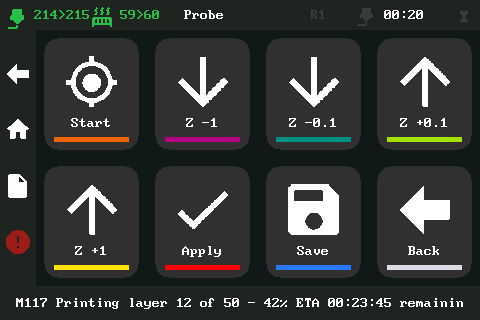
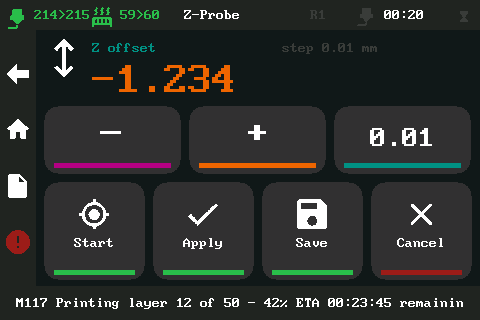
gui: Z-Probe screen; fix Level ABORT/CONFIRM label
- main menu 'Z Calibrate' -> 'Z-Probe'; the screen is redrawn like the
  adjustment popup: [-] [+] [step] on top, Start / Apply / Save / Cancel
  below, all grey with the colour only on the underline
- step toggle cycles 0.005 / 0.01 / 0.1 / 1 mm, -/+ send TESTZ with it
- Start: G28 + PROBE_CALIBRATE (homing first); Apply: ACCEPT;
  Save: G28 + SAVE_CONFIG (homing at the end); Cancel: heaters off +
  ABORT and back to main
- header shows the saved probe z_offset, or the live nozzle Z while a
  manual probe is active
- Level screen: the ABORT/CONFIRM label called a non-existent _t() and
  raised on every redraw while leveling - use a plain string
- a bit more room between the label and the accent line (_btn_ops)
- tft_sim: stub probe / manual_probe / bed_mesh, add the new screens

diff --git a/mcu/st7796.py b/mcu/st7796.py
@@ -56,7 +56,7 @@ GUI_SCREENS = {
         ("Extruder", "extrude", ('scr', 'extrude')),
         ("Print", "print", ('scr', 'print')),
         ("Level", "bedmesh", ('scr', 'mesh')),
-        ("Z Calibrate", "zoffset", ('scr', 'probe')),
+        ("Z-Probe", "zoffset", ('scr', 'probe')),
         ("More", "settings", ('scr', 'more')),
         ("Home", "home", 'G28'),
     ],
@@ -95,16 +95,8 @@ GUI_SCREENS = {
         None, None, None, None, None, None,
         ("Back", "back", ('scr', 'extrude')),
     ],
-    'probe': [
-        ("Start", "probe", 'PROBE_CALIBRATE'),
-        ("Z -1", "down", 'TESTZ Z=-1'),
-        ("Z -0.1", "down", 'TESTZ Z=-0.1'),
-        ("Z +0.1", "up", 'TESTZ Z=+0.1'),
-        ("Z +1", "up", 'TESTZ Z=+1'),
-        ("Apply", "check", 'ACCEPT'),
-        ("Save", "save", 'SAVE_CONFIG'),
-        ("Back", "back", ('scr', 'main')),
-    ],
+    # 'probe' (Z-Probe) is drawn by _probe_view_ops: see Z_STEPS below.
+    'probe': [],
     # 'print' is built dynamically from the virtual SD files (see _print_items)
     'print': [],
     'filament': [
@@ -155,6 +147,9 @@ GUI_STRIP = {
 # Screens whose button grid is not the default 4 columns x 2 rows
 GUI_ROWS = {'print': 2}
 GUI_COLS = {}
+
+# Z-Probe: TESTZ steps, cycled by the step toggle button (mm).
+Z_STEPS = (0.005, 0.01, 0.1, 1.0)
 
 # Advanced (extruder) and machine limit screens: POPUP_ITEMS keys per card.
 ADV_KEYS = ('pa', 'smooth', 'shx', 'shy')
@@ -225,7 +220,7 @@ POPUP_ITEMS = {
 
 # Friendly titles for the top bar (otherwise the screen id is shown)
 GUI_TITLES = {'ptune': 'Tune', 'filament': 'Filament',
-              'estop': 'Confirmar', 'mesh': 'Level',
+              'estop': 'Confirm', 'mesh': 'Level', 'probe': 'Z-Probe',
               'meshadj': 'Adjust', 'advanced': 'Advanced',
               'limits': 'Limits', 'more2': 'More 2/2',
               'extrude2': 'Extruder 2/2'}
@@ -499,6 +494,7 @@ class ST7796:
         self._card_cols = {}
         self._fil_unloaded = False
         self._BSTEPS = (0.005, 0.01, 0.1, 0.5)
+        self._zstep_i = 1
         self._bstep_i = 1
         self._baby_dirty = False
         self._popup = None
@@ -1726,7 +1722,7 @@ class ST7796:
                     self.gui_btn_bg
             else:
                 icon = 'x48'
-                lab = self._t("CONFIRM" if armed else "ABORT") \
+                lab = ("CONFIRM" if armed else "ABORT") \
                     if running else "CANCEL"
                 fg, bg = COL_WHITE, self.gui_btn_bg
             ops.append(lambda x=x, y=y, w=w, h=h, bg=bg: self._gui_round(
@@ -3135,6 +3131,8 @@ class ST7796:
             self._cards_view_ops(ops, ADV_KEYS, eventtime)
         elif self.gui_screen == 'limits':
             self._cards_view_ops(ops, LIM_KEYS, eventtime)
+        elif self.gui_screen == 'probe':
+            self._probe_view_ops(ops, eventtime)
         g = self.gui_btn_gap
         i2 = g // 2
         for (x, y, w, h, idx, item) in self._gui_buttons():
@@ -3408,7 +3406,7 @@ class ST7796:
                                          self.gui_btn_bg, 1))
         if accent is not None:
             ops.append(lambda bx=bx, by=by, bw2=bw2, bh2=bh2, accent=accent:
-                       self.cmd_rect.send([bx + 10, by + bh2 - 13, bw2 - 20, 5,
+                       self.cmd_rect.send([bx + 10, by + bh2 - 9, bw2 - 20, 5,
                                            accent]))
     def _net_view_ops(self, ops, eventtime):
         info = self._net_info()
@@ -3538,6 +3536,100 @@ class ST7796:
         ty = y + max(0, (h - 64) // 2)
         ops.append(lambda tx=tx, ty=ty, label=label, bg=bg, fg=fg:
                    self._gui_text(tx, ty, label, fg, bg, 4))
+    # --- Z-Probe (manual probe calibrate) ---------------------------------
+    # Layout follows the adjustment popup: [-][+][step] on top, then the
+    # Start / Apply / Save / Cancel row underneath.
+    def _probe_btns(self):
+        x0 = self.RAIL_W + 8
+        w = self.width - self.RAIL_W - 16
+        bw1 = (w - 16) // 3
+        bw2 = (w - 24) // 4
+        y1 = self.TOP_H + 76
+        h1 = 68
+        y2 = y1 + h1 + 8
+        h2 = self.height - self.STRIP_H - 6 - y2
+        out = [('minus', x0, y1, bw1, h1),
+               ('plus', x0 + bw1 + 8, y1, bw1, h1),
+               ('step', x0 + 2 * (bw1 + 8), y1, bw1, h1)]
+        for i, k in enumerate(('start', 'apply', 'save', 'cancel')):
+            out.append((k, x0 + i * (bw2 + 8), y2, bw2, h2))
+        return out
+    def _probe_read(self, eventtime):
+        # During PROBE_CALIBRATE show the nozzle Z being adjusted, otherwise
+        # the saved probe z_offset.
+        try:
+            mp = self.printer.lookup_object('manual_probe').get_status(
+                eventtime)
+        except Exception:
+            mp = {}
+        if mp.get('is_active'):
+            return "Nozzle Z", float(mp.get('z_position') or 0.)
+        try:
+            return "Z offset", float(self.printer.lookup_object(
+                'probe').get_status(eventtime).get('z_offset') or 0.)
+        except Exception:
+            return "Z offset", None
+    def _probe_view_ops(self, ops, eventtime):
+        x0 = self.RAIL_W + 8
+        y0 = self.TOP_H + 8
+        bg = self.gui_btn_bg
+        ops.append(lambda: self._gui_icon_at('zoffset', x0, y0, COL_WHITE,
+                                             COL_BG, 40))
+        lab, z = self._probe_read(eventtime)
+        val = "%+.3f" % z if z is not None else "--"
+        ops.append(lambda lab=lab: self._gui_text(x0 + 48, y0 + 2, lab,
+                                                  COL_C3, COL_BG, 1))
+        ops.append(lambda val=val: self._gui_text(x0 + 48, y0 + 18, val,
+                                                  COL_C1, COL_BG, 3))
+
+        ops.append(lambda: self._gui_text(x0 + 48 + 190, y0 + 2,
+                                          "step %g mm" % Z_STEPS[
+                                              self._zstep_i],
+                                          COL_DIM, COL_BG, 1))
+        for (kind, x, y, w, h) in self._probe_btns():
+            if kind in ('minus', 'plus'):
+                sign = '-' if kind == 'minus' else '+'
+                acc = self._gc(1) if kind == 'minus' else self._gc(0)
+                ops.append(lambda x=x, y=y, w=w, h=h: self._gui_round(
+                    x, y, w, h, bg))
+                ty = y + max(4, (h - 48 - 14) // 2)
+                ops.append(lambda x=x, y=y, w=w, sign=sign, ty=ty:
+                           self._gui_text(x + (w - 24) // 2, ty, sign,
+                                          COL_WHITE, bg, 3))
+                ops.append(lambda x=x, y=y, w=w, h=h, acc=acc:
+                           self.cmd_rect.send([x + 10, y + h - 11, w - 20,
+                                               5, acc]))
+            elif kind == 'step':
+                lab = "%g" % Z_STEPS[self._zstep_i]
+                ops.append(lambda x=x, y=y, w=w, h=h: self._gui_round(
+                    x, y, w, h, bg))
+                ops.append(lambda x=x, y=y, w=w, lab=lab:
+                           self._gui_text_center(x, w, y + 16, lab,
+                                                 COL_WHITE, bg, 2))
+                ops.append(lambda x=x, y=y, w=w, h=h:
+                           self.cmd_rect.send([x + 10, y + h - 11, w - 20,
+                                               5, COL_C3]))
+            else:
+                icon, acc = {'start': ('probe', COL_OK),
+                             'apply': ('check', COL_OK),
+                             'save': ('save', COL_OK),
+                             'cancel': ('x48', COL_ERR)}[kind]
+                lab = kind.capitalize()
+                ops.append(lambda x=x, y=y, w=w, h=h: self._gui_round(
+                    x, y, w, h, bg))
+                isz = 30
+                iw = (self._icon_at(icon, isz) or (0, 0))[0]
+                iy = y + max(6, (h - (isz + 6 + 16)) // 2 - 6)
+                ops.append(lambda x=x, y=y, w=w, icon=icon, iw=iw, iy=iy,
+                           isz=isz: self._gui_icon_at(
+                               icon, x + (w - iw) // 2, iy, COL_WHITE, bg,
+                               isz))
+                ops.append(lambda x=x, y=y, w=w, iy=iy, isz=isz, lab=lab:
+                           self._gui_text_center(x, w, iy + isz + 6, lab,
+                                                 COL_WHITE, bg, 1))
+                ops.append(lambda x=x, y=y, w=w, h=h, acc=acc:
+                           self.cmd_rect.send([x + 10, y + h - 10, w - 20,
+                                               5, acc]))
     def _estop_btns(self):
         bw = (self.width - self.RAIL_W) // 4
         y = self.TOP_H + 104
@@ -3606,6 +3698,37 @@ class ST7796:
         elif isinstance(action, tuple) and action[0] == 'bstep':
             self._bstep_i = (self._bstep_i + 1) % len(self._BSTEPS)
             self._gui_render(eventtime)
+        elif isinstance(action, tuple) and action[0] == 'zp':
+            kind = action[1]
+            now = self.printer.get_reactor().monotonic()
+            if kind == 'step':
+                self._zstep_i = (self._zstep_i + 1) % len(Z_STEPS)
+                self._gui_render(eventtime)
+                return
+            if kind in ('minus', 'plus'):
+                amt = Z_STEPS[self._zstep_i] * (
+                    -1. if kind == 'minus' else 1.)
+                self._gui_msg = "TESTZ %+.3f" % amt
+                self._gui_msg_until = now + 5.
+                script = 'TESTZ Z=%+g' % amt
+            elif kind == 'start':
+                self._gui_msg = "Homing, then PROBE_CALIBRATE..."
+                self._gui_msg_until = now + 240.
+                script = 'G28\nPROBE_CALIBRATE'
+            elif kind == 'apply':
+                self._gui_msg = "Z offset accepted (ACCEPT)"
+                self._gui_msg_until = now + 8.
+                script = 'ACCEPT'
+            elif kind == 'save':
+                self._gui_msg = "Homing, then SAVE_CONFIG..."
+                self._gui_msg_until = now + 240.
+                script = 'G28\nSAVE_CONFIG'
+            elif kind == 'cancel':
+                self._gui_msg = "Cancelled: heaters OFF"
+                self._gui_msg_until = now + 8.
+                self.gui_screen = 'main'
+                self._gui_render(eventtime)
+                script = 'M104 S0\nM140 S0\nABORT'
         elif isinstance(action, tuple) and action[0] == 'bsave':
             if not self._baby_dirty:
                 # Nothing changed - just leave the menu.
@@ -3826,6 +3949,12 @@ class ST7796:
                     self.gcode.respond_info("GUI nivelar: CANCELAR")
                     self._gui_do(('scr', 'print'), eventtime)
                 return
+        if self.gui_screen == 'probe':
+            for (kind, x, y, w, h) in self._probe_btns():
+                if x <= sx < x + w and y <= sy < y + h:
+                    self.gcode.respond_info("GUI zprobe: %s" % kind)
+                    self._gui_do(('zp', kind), eventtime)
+                    return
         if self.gui_screen == 'network':
             for (x, y, w, h, idx, item) in self._gui_buttons():
                 if x <= sx < x + w and y <= sy < y + h:

diff --git a/tools/tft_sim.py b/tools/tft_sim.py
@@ -134,6 +134,10 @@ class Printer:
         if name == 'gcode_move':
             return Obj({'speed_factor': 1.0, 'extrude_factor': 0.98,
                         'gcode_position': [123.4, 45.6, 7.8, 0.0]})
+        if name == 'probe':
+            return Obj({'z_offset': -1.234})
+        if name == 'manual_probe':
+            return Obj({'is_active': False})
         if name == 'fan':
             return Obj({'speed': 1.0})
         if name == 'display_status':
@@ -147,6 +151,13 @@ class Printer:
                 'bed_mesh': {'mesh_min': [20.0, 20.0],
                              'mesh_max': [300.0, 300.0],
                              'probe_count': [4, 4]}}})
+        if name == 'bed_mesh':
+            return Obj({'mesh_min': [20.0, 20.0], 'mesh_max': [300.0, 300.0],
+                        'profile_name': 'default',
+                        'mesh_matrix': [[-6.85, -6.95, -7.09, -7.21],
+                                        [-6.99, -6.95, -6.99, -7.14],
+                                        [-7.11, -7.01, -6.95, -6.98],
+                                        [-7.31, -7.13, -6.98, -7.00]]})
         if name == 'input_shaper':
             return Obj({'shaper_type_x': 'mzv', 'shaper_freq_x': 43.2,
                         'shaper_type_y': 'ei', 'shaper_freq_y': 38.5})
@@ -187,6 +198,7 @@ def build(printing, paused=False):
     o._sd_page = 0
     o._sd_per_page = 6
     o._gui_steps, o._gui_step = (0.1, 1.0, 10.0), 1.0
+    o._zstep_i = 1
     o._ext_steps, o._ext_step = (1.0, 5.0), 1.0
     o._gui_msg, o._gui_msg_until = None, 0.0
     o._t_hist = [(200, 60)] * 20
@@ -263,7 +275,7 @@ def build(printing, paused=False):
 SCREENS = ('print', 'printp', 'printprev', 'list', 'main', 'ptune', 'ptemp', 'power',
            'estop', 'more', 'move', 'temperature', 'extrude', 'probe', 'tune',
            'network', 'modify', 'filament', 'popup', 'popupbaby', 'mesh', 'meshidle', 'meshadj',
-           'advanced', 'limits', 'more2', 'extrude2')
+           'advanced', 'limits', 'calib', 'meshbl', 'resonance', 'about')
 
 
 def render(which):
